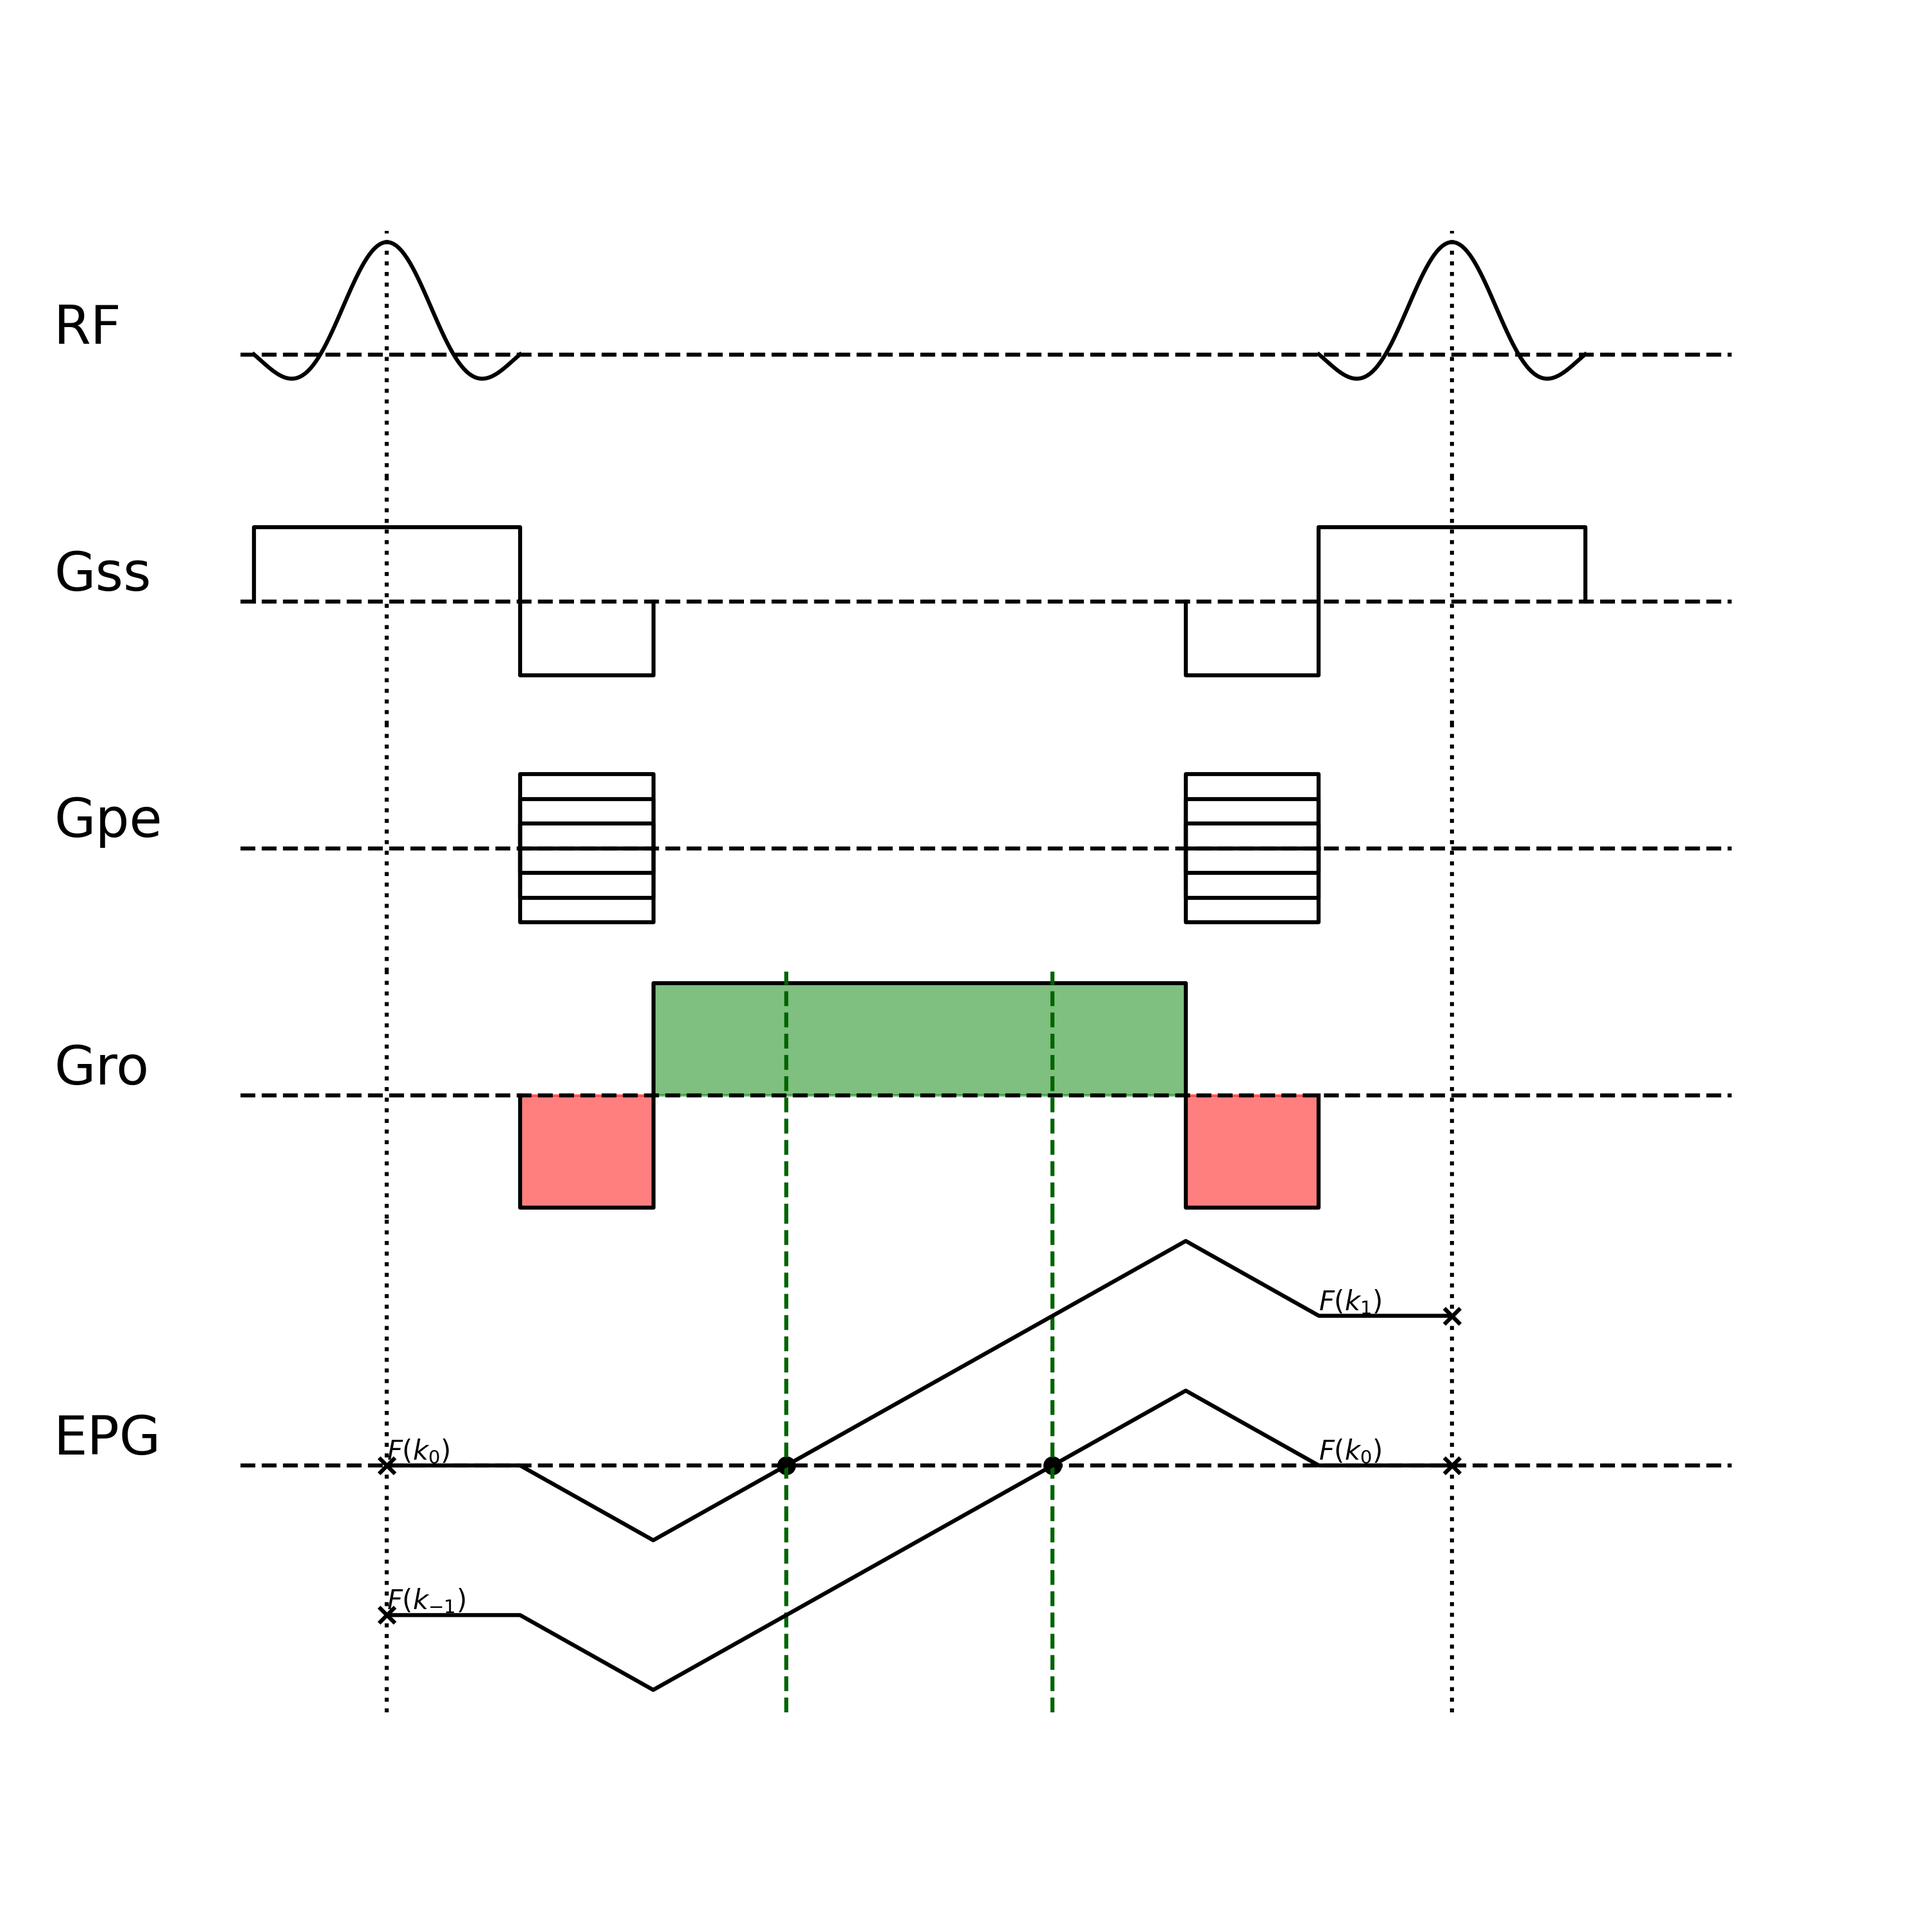
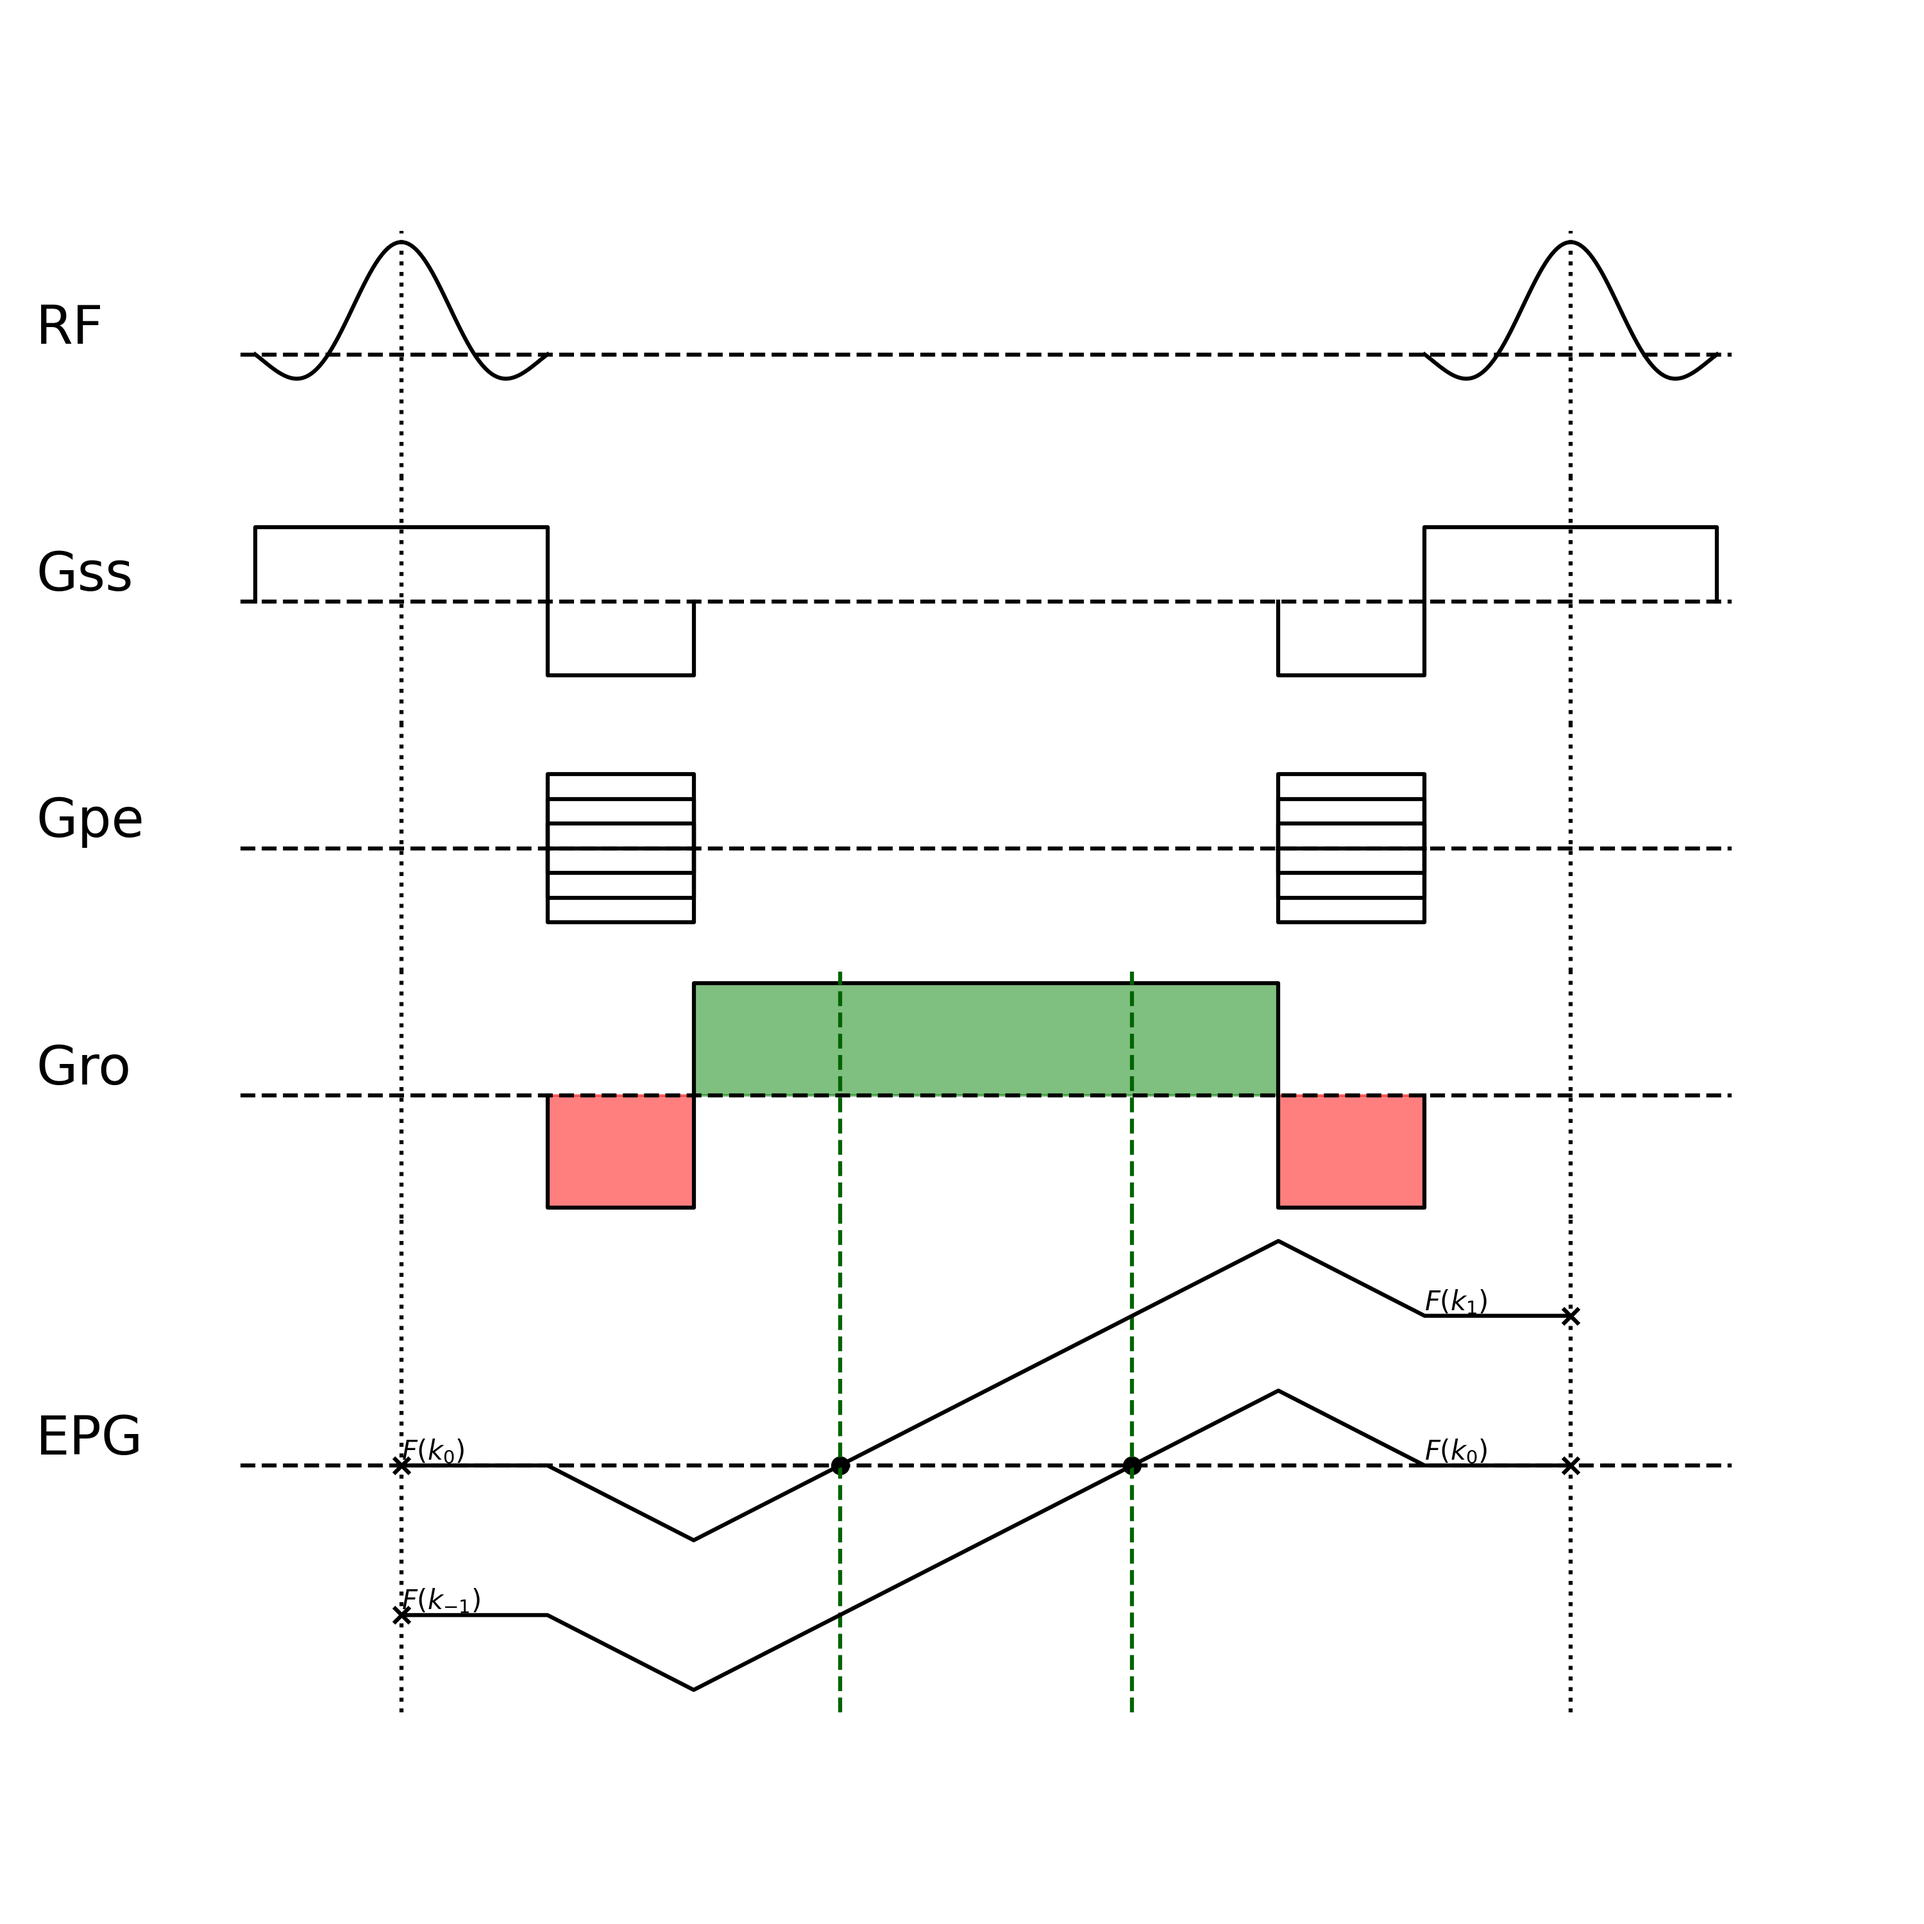
Small update

diff --git a/algo_arbitarySSFP.py b/algo_arbitarySSFP.py
@@ -136,7 +136,7 @@ def EPG_plot(start_echo, end_echo, ascend=None, balance=False, spoiler_portion=0
     plt.axhline(y=0, color='k', linestyle='--')
     plt.axvline(x=-1, color='k', linestyle=':')
     plt.axvline(x=t_list[-1], color='k', linestyle=':')
-    plt.xlim(-2.1, t_list[-1]+2.1)
+    plt.xlim(-2.1, t_list[-1]+1.1)
     plt.text(-3.5, 0, "RF", fontsize=20, verticalalignment='bottom',
              horizontalalignment='left')
     plt.axis('off')
@@ -149,7 +149,7 @@ def EPG_plot(start_echo, end_echo, ascend=None, balance=False, spoiler_portion=0
     plt.axhline(y=0, color='k', linestyle='--')
     plt.axvline(x=-1, color='k', linestyle=':')
     plt.axvline(x=t_list[-1], color='k', linestyle=':')
-    plt.xlim(-2.1, t_list[-1]+2.1)
+    plt.xlim(-2.1, t_list[-1]+1.1)
     plt.ylim(-5, 5)
     plt.text(-3.5, 0, "Gss", fontsize=20, verticalalignment='bottom',
              horizontalalignment='left')
@@ -166,7 +166,7 @@ def EPG_plot(start_echo, end_echo, ascend=None, balance=False, spoiler_portion=0
     plt.axhline(y=0, color='k', linestyle='--')
     plt.axvline(x=-1, color='k', linestyle=':')
     plt.axvline(x=t_list[-1], color='k', linestyle=':')
-    plt.xlim(-2.1, t_list[-1]+2.1)
+    plt.xlim(-2.1, t_list[-1]+1.1)
     plt.ylim(-5, 5)
     plt.text(-3.5, 0, "Gpe", fontsize=20, verticalalignment='bottom',
              horizontalalignment='left')
@@ -175,7 +175,7 @@ def EPG_plot(start_echo, end_echo, ascend=None, balance=False, spoiler_portion=0
     subplot_id("RO")
     plt.axvline(x=-1, color='k', linestyle=':')
     plt.axvline(x=t_list[-1], color='k', linestyle=':')
-    plt.xlim(-2.1, t_list[-1]+2.1)
+    plt.xlim(-2.1, t_list[-1]+1.1)
     plt.text(-3.5, 0, "Gro", fontsize=20, verticalalignment='bottom',
              horizontalalignment='left')
     plt.axis('off')
@@ -183,7 +183,7 @@ def EPG_plot(start_echo, end_echo, ascend=None, balance=False, spoiler_portion=0
     subplot_id("EPG")
     plt.axvline(x=-1, color='k', linestyle=':')
     plt.axvline(x=t_list[-1], color='k', linestyle=':')
-    plt.xlim(-2.1, t_list[-1]+2.1)
+    plt.xlim(-2.1, t_list[-1]+1.1)
     plt.text(-3.5, 0, "EPG", fontsize=20, verticalalignment='bottom',
              horizontalalignment='left')
     plt.axis('off')

diff --git a/README.md b/README.md
@@ -1,8 +1,24 @@
-# Pulse sequence diagram for arbitrary multi-echo steady-state free precession (me-SSFP)
+# Arbitrary order Multi-Echo Steady-State Free Precession (MESS)
+
+## Introduction
+
++ Stead-State Free Precession (SSFP): First proposed by E. L. Hahn in 1950. Train of RF pulses with fixed repetition time (TR) and flip angle. Each RF pulse is followed by a combination of gradient pulses to encode the spatial information. The magnetization will reach a equilibrium state after a series of repetitions, which stands for the steady-state.
++ Extended Phase Graph (EPG): A theoretical framework to model the signal evolution of the magnetization in the presence of RF pulses and gradient pulses. The gradient could dephase the signal into higer order, while the RF pulse could rotate the isochromats. Based on the EPG analysis, the signal evolution could be described by a series of fourier coefficients in the transverse plane $F(k_n)$ and longitudinal axis $Z(k_n)$.
++ balanced SSFP (bSSFP/TrueFISP/): phase fully refocused at the end of each TR, where the stimulated echos overlap each other.
+    + Pros: high signal intensity
+    + Cons: sensitive to off-resonance effects, introduce banding artifacts. The stimulated echos has different echo times (TE), so the phase accumulation is different. The bSSFP image is equivalent to the complex sum of the echos, where the opposite phase of the stimulated echos cancel each other out and result in banding artifacts.
++ unbalanced SSFP: signal evolves into a higher order at the end of each TR, where phase is not fully refocused. 
+    + GRE/FISP/GRASS/FFE: Acquire the zeroth-order free-induction-decay (FID) signal $F(k_0)$
+    + PSIF/T2-FFE/SSFP-Echo: Acquire the -1st order signal $F(k_{-1})$
+    + DESS: Acquire the 0th and -1st order signal $F(k_0)$ and $F(k_{-1})$
+    + TESS: Acquire the 0th and -1st order signal $F(k_0)$ and $F(k_{-1})$
+    + MESS: First proposed by Chris T. Mizumoto et al. in 1991.
+    + FLASH/SPGR: Note that sequence with RF spoiling is not considered here. Although these sequence also acquire the FID signal, RF pulses with quadratic phase increment will eventually reach a pesudo steady-state, where the stimulated echos from the higer order will be suppressed. The analysis in the following sections only consider the sequence with linear phase increment (phase-cycling).
+    
 
 ## Theory
 
-The extended phase graph (EPG) decompose the magnetization into a series of fourier coefficients in the transverse plane ($F_n$) and longitudinal axis ($Z_n$).
+The extended phase graph (EPG) decompose the magnetization into a series of fourier coefficients in the transverse plane ($F(k_n)$) and longitudinal axis ($Z(k_n)$).
 
 $$F(k_n)= \frac{1}{2\pi} \int_{-\pi}^{\pi} M_{xy}(\theta) e^{-jn\theta} d\theta, \quad n \in \mathbb{Z}$$
 
@@ -38,7 +54,7 @@ Z_0^- &= E_1 Z_n^+ + M_0(1-E_1)\\
 \end{aligned}$$
 
 
-The analytic solution for the $n$-th coefficient of the transverse magnetization after the RF pulse $F^+$ is given by \cite{leupold2017steady}
+Under the steady-state condition, the analytic solution for the $n$-th coefficient of the transverse magnetization after the RF pulse $F^+$ is given by \cite{leupold2017steady}
 
 $$F^+(k_n) = \frac{M_0(1-E_1)}{(A-BE_2^2)\sqrt{1-a^2}}\left[\left(\frac{\sqrt{1-a^2}-1}{a}\right)^{|n|} - E_2\left(\frac{\sqrt{1-a^2}-1}{a}\right)^{|n+1|}\right]$$
 
@@ -48,11 +64,10 @@ B &= E_1\sin(\alpha) \\
 a &= \frac{E_2(B-A)}{A-BE_2^2} \\
 \end{aligned}$$
 
-and under the assumption of lorentz distribution of the off-resonance within the voxel for describing the $T_2'$, the echo signal $S_n$ to be measured is given by
+the echo signal $S_n$ to be measured is given by
 
 <!-- $$S_n(\text{TE}_n) = F_n^+ \underbrace{e^{-\text{TE}_n/T_2}}_{T_2\text{ relaxation}} \underbrace{e^{-\left|\text{TE}_n+n\text{TR}\right|/T_2'}}_{T_2'\text{ relaxation}}\underbrace{e^{j\omega_0(\text{TE}_n+n\text{TR})}}_{\text{off-resonance phase}}$$ -->
 $$S_n(\text{TE}_n) = F_n^+ e^{-\text{TE}_n/T_2}e^{-\left|\text{TE}_n+n\text{TR}\right|/T_2'}e^{j\omega_0(\text{TE}_n+n\text{TR})}$$
 
 where the $T_2$ and $T_2'$ relaxation terms are multiplied to the transverse magnetization after the RF pulse $F^+$, and the off-resonance phase term corresponds to the phase shift of the $n$-th echo due to the B0 field inhomogeneity.
 
-## Algorithm
